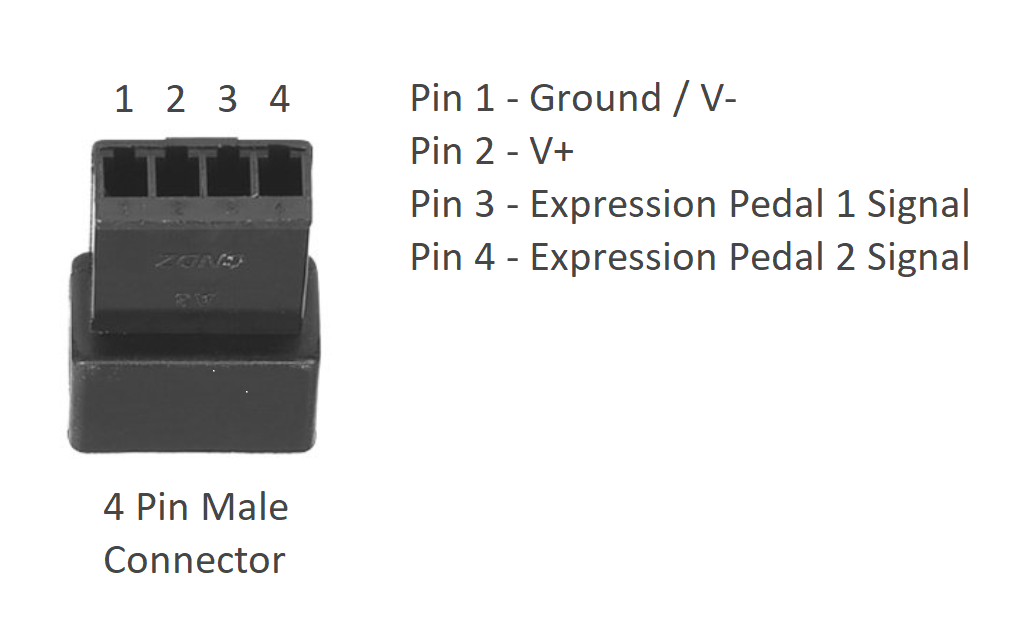
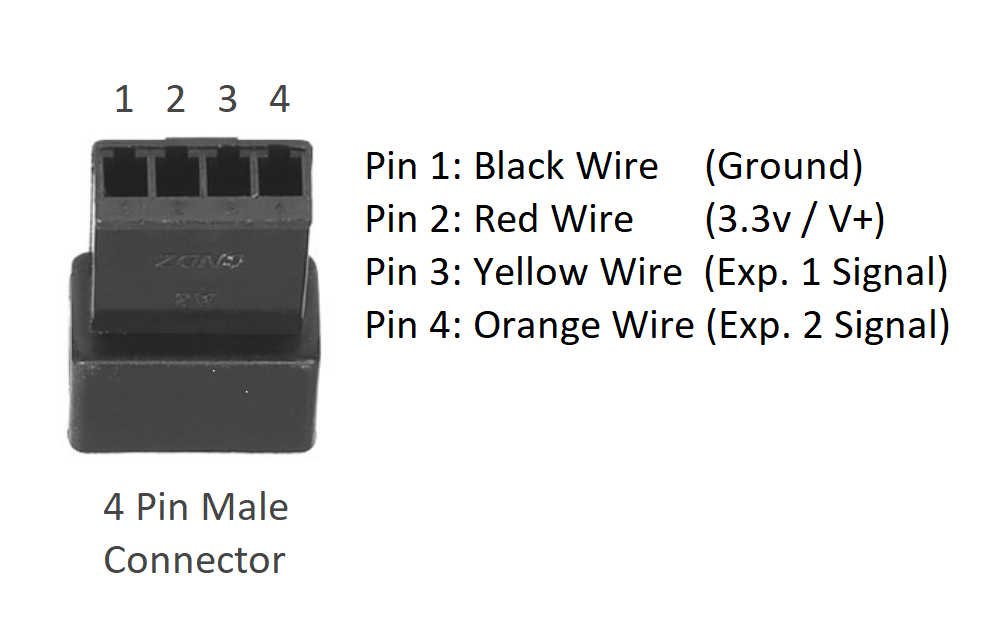
Adjusted wire colors in desctiptions and added a note to the power circuit page before I get started on that

diff --git a/README/howto-solder-expression-pedal-jacks.md b/README/howto-solder-expression-pedal-jacks.md
@@ -24,14 +24,14 @@ Repeat the instructions below for each expression pedal jack pair.  (2 jacks / 1
 
 ### Solder the Jacks
 
-  1. Solder a long wire, and a short wire to the sleeve pin of the 1/4" jack.
+  1. Solder a regular length black wire, and a short black wire to the sleeve pin of the 1/4" jack.
 
-  2. Solder the other end of the short wire to the ring shunt pin of the 1/4" jack.
+  2. Solder the other end of the short black wire to the ring shunt pin of the 1/4" jack.
      - (this will ensure that if an expression pedal is not connected, no position changes will be reported --- this will prevent a volume, or effect being set to OFF when nothing is plugged into the jack)
 
-  3. Solder a long wire to the tip pin of the 1/4" jack.
+  3. Solder a red wire to the tip pin of the 1/4" jack.
 
-  4. Solder a long wire to the ring pin of the 1/4" jack.
+  4. Solder a yellow (orange for the 2nd jack) wire to the ring pin of the 1/4" jack.
 
   5. Repeat the above steps for the second expression pedal jack in the pair.
 
@@ -45,13 +45,13 @@ Repeat the instructions below for each expression pedal jack pair.  (2 jacks / 1
 
      ![expression pedal jack connector](expression-pedal-jack-pair-connector-pinout.png)
 
-     - Pin 1 connected to the TWO wires that lead to the ring pins of each jack.
+     - Pin 1 connected to the TWO black wires that lead to the ring pins of each jack.
 
-     - Pin 2 connected to the TWO wires that lead to the tip pins of each jack.
+     - Pin 2 connected to the TWO red wires that lead to the tip pins of each jack.
 
-     - Pin 3 to the wire that leads to the sleeve pin of the jack for expression pedal 1.
+     - Pin 3 to the yellow wire that leads to the sleeve pin of the jack for expression pedal 1.
 
-     - Pin 4 to the wire that leads to the sleeve pin of the jack for expression pedal 2.
+     - Pin 4 to the orange wire that leads to the sleeve pin of the jack for expression pedal 2.
 
 #### See the [soldering the microcontroller](howto-solder-microcontroller-board.md) page for information about the matching female connector, and what it hooks up to.
 

diff --git a/README/howto-solder-button-circuit.md b/README/howto-solder-button-circuit.md
@@ -13,8 +13,8 @@ Each button pair will need the following components to be soldered together.
   - 2 blue
   - 1 yellow
   - 1 orange
+  - _Before you start, dry-fit all button/LED pairs, and cut the 8 wires so that they reach where the sparkfun board will be in the chassis/case._
 - Heat-shrink tubing
-- _Before you start, dry-fit all button/LED pairs, and cut the 8 wires so that they reach where the sparkfun board will be in the chassis/case._
 
 ## Instructions
 

diff --git a/README/howto-solder-power-and-charging-circuit.md b/README/howto-solder-power-and-charging-circuit.md
@@ -1,2 +1,9 @@
 # TODO/WIP: Soldering the Power/Charging Circuit
 
+
+
+
+
+
+
+#### See the [soldering the microcontroller](howto-solder-microcontroller-board.md) page for information about the matching female connector, and what it hooks up to.
